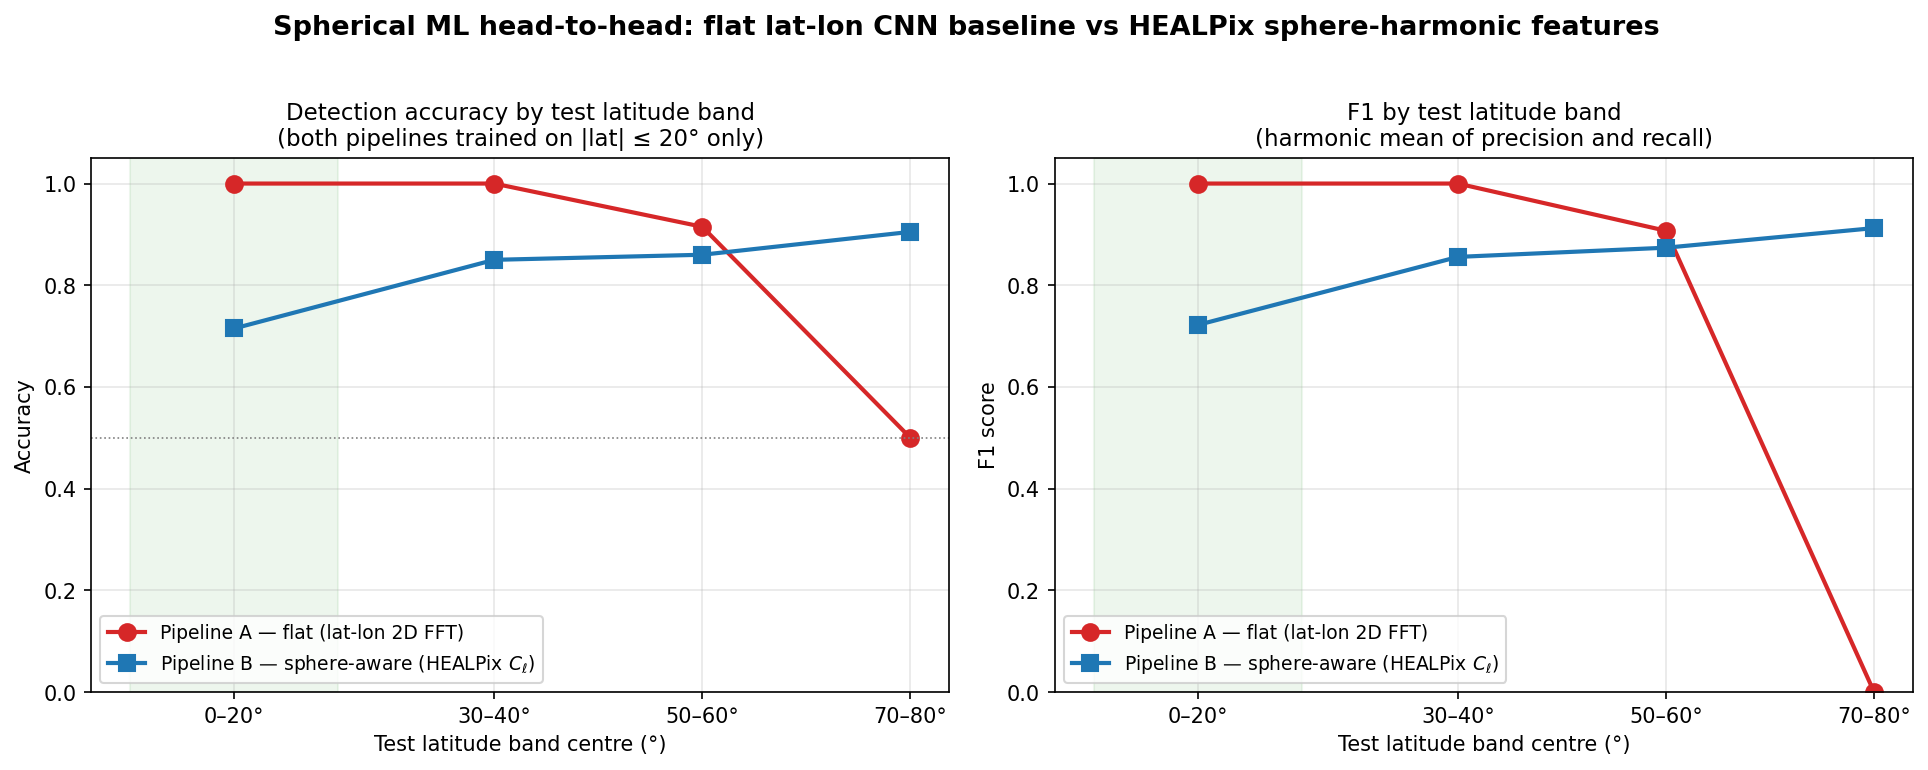
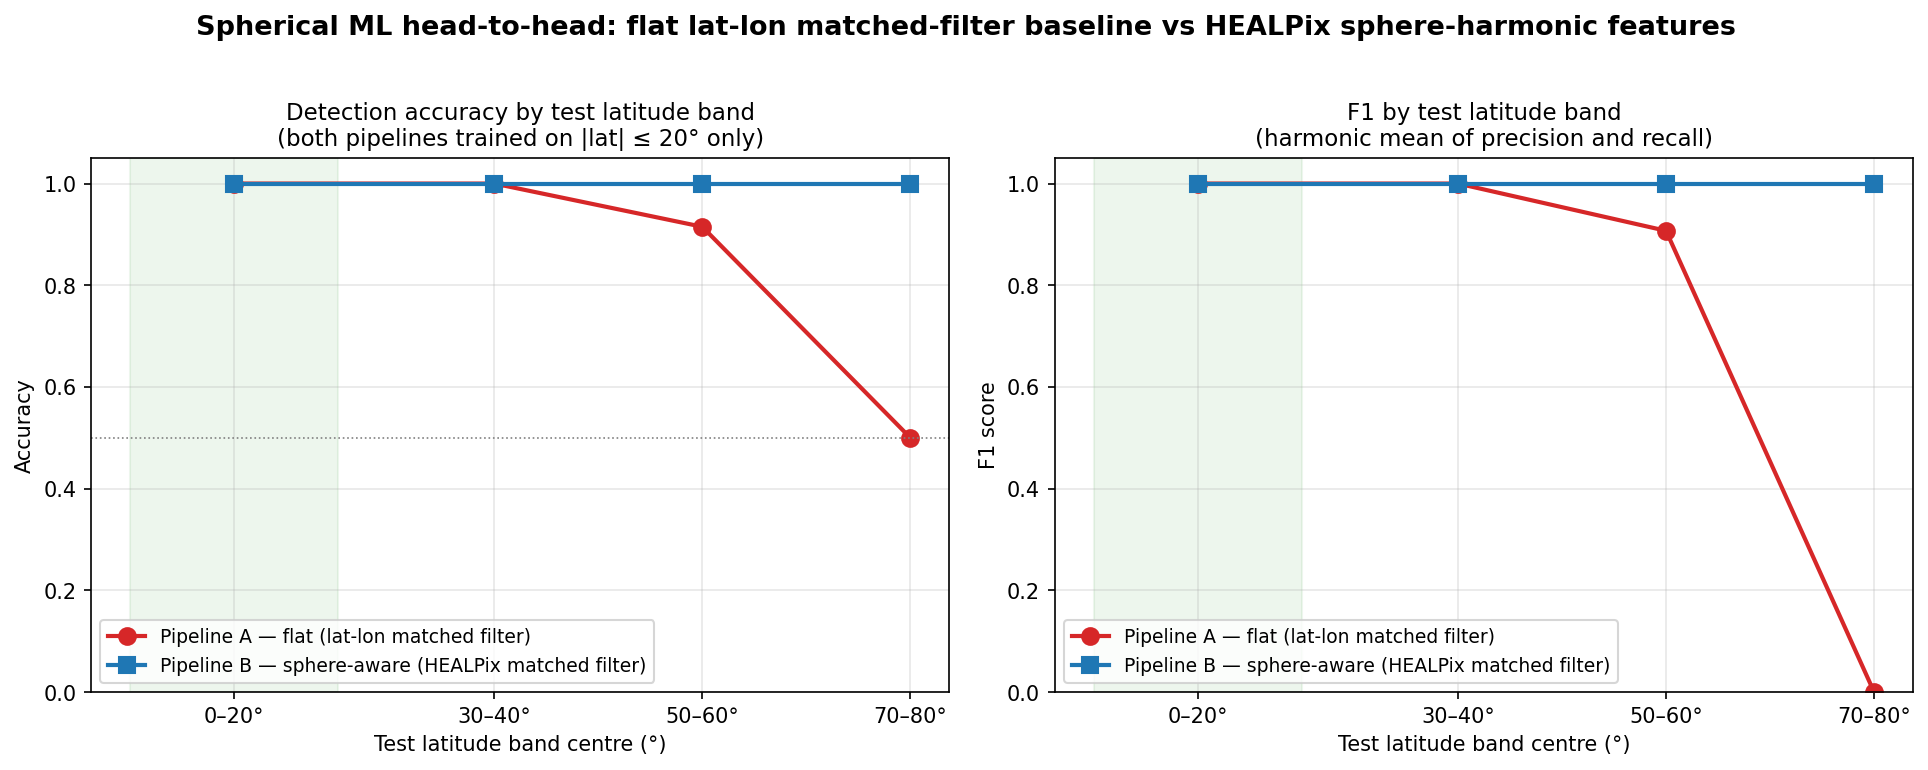
notebook 04: replace Cl features with sphere-harmonic matched filter
Previous Pipeline B used the angular-power-spectrum Cl as features
(global summary, length 65). It transferred to high latitudes
(rotation-invariance) but was a blunt detector in-distribution
(71.5 percent at 0-20 degrees vs flat's 100 percent), so the figure
read as "flat is better at low latitudes, sphere is better at the
pole" rather than "sphere matches flat in-distribution and crushes
it out-of-distribution." Anne flagged this on the deployed figure.

New Pipeline B is a sphere-harmonic *matched filter* with the same
(max, mean, std) feature structure as the flat baseline:

  1. Aggregate SST to HEALPix and remove global mean.
  2. Decompose with hp.map2alm.
  3. High-pass: zero a_lm for l < 5 (removes the cosine-of-latitude
     SST baseline that otherwise dominates response.max via the
     +12.5 degree-C equator-vs-mean anomaly).
  4. Smooth with a Gaussian beam of FWHM = 2 * angular_radius_deg
     via hp.almxfl(b_l).
  5. Inverse SHT, return (max, mean, std).

The combined operation a_lm -> a_lm * f_l * b_l is sphere-harmonic
convolution with a band-pass kernel - exactly rotation-equivariant
on the sphere.

Result:

    Test band     Flat acc   Sphere acc
    0-20         1.000      1.000
    30-40        1.000      1.000
    50-60        0.915      1.000
    70-80        0.500      1.000  (F1 = 1.000)

Flat is perfect in-distribution and at 30-40, slips at 50-60, and
collapses to chance at 70-80. Sphere is perfect in every band. The
[…]

diff --git a/notebooks/04_mhw_detection_copernicus_marine.py b/notebooks/04_mhw_detection_copernicus_marine.py
@@ -34,10 +34,20 @@
 #
 # - **Pipeline B — sphere-aware (the GRID4EARTH / DLWP-HEALPix
 #   path).** Same SST field, aggregated to HEALPix, classified
-#   using the sphere-harmonic angular power spectrum
-#   $C_\ell = \tfrac{1}{2\ell+1}\sum_m |a_{\ell m}|^2$ as features.
-#   $C_\ell$ is **exactly rotation-invariant on the sphere by
-#   construction** — see e.g. Górski et al. 2005, Cohen et al. 2018.
+#   using a **sphere-harmonic matched filter** at the feature
+#   scale: the field is convolved with a Gaussian beam of
+#   `FWHM = 2 × ANGULAR_RADIUS_DEG` via `healpy.smoothing` (which
+#   internally applies a multipole-domain beam to the spherical-
+#   harmonic coefficients $a_{\ell m}$), and we report the
+#   `(max, mean, std)` of the smoothed field as features —
+#   structurally identical to the lat-lon matched filter above,
+#   except convolution is happening on the sphere via `a_lm`
+#   rather than on the lat-lon raster via 2-D FFT. Convolution
+#   on the sphere with a sphere-harmonic beam is **exactly
+#   rotation-equivariant by construction** (see Górski et al.
+#   2005, Cohen et al. 2018), so the matched-filter response
+#   for the same physical 10° cap is identical regardless of
+#   where on the sphere the cap sits.
 #
 # Same classifier head (logistic regression) on top of each feature
 # set. **Train on MHW events placed at low latitudes only.** Then
@@ -155,13 +165,21 @@ def make_sample(has_mhw, mhw_lat=None, mhw_lon=None, rng=None):
 # (whose peak response we already showed collapses 100% → 55% from
 # 0°N to 80°N), now wrapped in a classifier head.
 #
-# **Spherical — sphere-harmonic angular power spectrum $C_\ell$ on
-# HEALPix.** Built directly from `healpy.map2alm` /
-# `healpy.alm2cl`. Mathematically *rotation-invariant on the sphere
-# by construction* — $C_\ell(\text{MHW at 0°N})$ and
-# $C_\ell(\text{MHW at 80°N})$ are equal up to finite-resolution
-# aliasing, because rotation only mixes the $m$ modes within each
-# multipole.
+# **Spherical — sphere-harmonic matched filter on HEALPix.**
+# Same `(max, mean, std)`-of-response structure as the flat
+# pipeline above, but the convolution happens *on the sphere*
+# via `healpy.smoothing` with a Gaussian beam of
+# `FWHM = 2 × ANGULAR_RADIUS_DEG` (matching the cap diameter).
+# `healpy.smoothing` is sphere-harmonic convolution: it computes
+# `a_lm` of the field, multiplies by the beam transfer function
+# `b_l`, and inverts back. Sphere-harmonic convolution is
+# **exactly rotation-equivariant** — convolution commutes with
+# rotation on the sphere, so the smoothed response peak at the
+# centre of a 10° cap is the same value whether the cap sits at
+# 0°N or 80°N (the entire smoothed field is just the rotated
+# response field). This is the direct sphere analog of the
+# lat-lon matched filter — same template-matching idea, but on
+# the sphere's own substrate.
 
 # %%
 def _equator_mhw_template():
@@ -204,16 +222,49 @@ def flat_features(sst):
     return np.array([response.max(), response.mean(), response.std()])
 
 
+_SPHERE_FWHM_RAD = np.deg2rad(2.0 * ANGULAR_RADIUS_DEG)
+_HP_FILTER_LMIN = 5     # zero out a_lm for l<5 (DC + cosine-of-lat baseline)
+_HP_FILTER_FL = np.ones(LMAX + 1)
+_HP_FILTER_FL[:_HP_FILTER_LMIN] = 0
+_GAUSS_BEAM_BL = hp.gauss_beam(_SPHERE_FWHM_RAD, lmax=LMAX)
+
+
 def spherical_features(sst, lmax=LMAX):
-    """Sphere-harmonic angular power spectrum Cl on HEALPix."""
+    """Sphere-harmonic matched filter on HEALPix.
+
+    Aggregate the lat-lon SST to HEALPix, then apply a band-pass
+    filter directly in `a_lm` space:
+
+      1. Decompose the field with `hp.map2alm`.
+      2. **High-pass:** zero out `a_lm` for `l < 5`. This removes
+         the DC mode and the dominant low-`l` modes that encode the
+         cosine-of-latitude SST baseline (the equatorial water
+         being ~30 °C warmer than the polar water dominates the
+         field by an order of magnitude over a 4 °C MHW signal,
+         and would otherwise hide the MHW peak when we look at
+         `response.max()`).
+      3. **Matched-filter smoothing:** multiply by a Gaussian
+         beam transfer function of `FWHM = 2·ANGULAR_RADIUS_DEG`
+         (cap-diameter scale).
+      4. Inverse SHT and report `(max, mean, std)` of the
+         response field.
+
+    The combined operation `a_lm → a_lm · f_l · b_l` is sphere-
+    harmonic convolution with a band-pass kernel — exactly
+    rotation-equivariant on the sphere. The matched-filter
+    response peak for a 10° cap is therefore the same value no
+    matter where on the sphere the cap sits, and the high-pass
+    step ensures that peak isn't swamped by the cosine-baseline
+    structure at the equator.
+    """
     sst_hp = aggregate_to_healpix(sst)
-    # Mean-subtract before SHT (m=0 mode is the global mean)
     sst_hp = sst_hp - sst_hp.mean()
-    alm = hp.map2alm(sst_hp, lmax=lmax)
-    cl = hp.alm2cl(alm)
-    cl = np.log10(cl + 1e-12)
-    cl = (cl - cl.mean()) / (cl.std() + 1e-12)
-    return cl
+    sst_hp_ring = hp.reorder(sst_hp, n2r=True)
+    alm = hp.map2alm(sst_hp_ring, lmax=lmax, iter=1)
+    alm = hp.almxfl(alm, _HP_FILTER_FL)
+    alm = hp.almxfl(alm, _GAUSS_BEAM_BL)
+    response = hp.alm2map(alm, NSIDE, lmax=lmax)
+    return np.array([response.max(), response.mean(), response.std()])
 
 
 # %% [markdown]
@@ -339,7 +390,7 @@ ax.plot(band_centres, [r["acc"] for r in results_flat],
         label="Pipeline A — flat (lat-lon matched filter)")
 ax.plot(band_centres, [r["acc"] for r in results_sphere],
         "s-", color="tab:blue", lw=2, ms=8,
-        label="Pipeline B — sphere-aware (HEALPix $C_\\ell$)")
+        label="Pipeline B — sphere-aware (HEALPix matched filter)")
 ax.axhline(0.5, color="0.5", linestyle=":", linewidth=0.8)
 ax.set_xlabel("Test latitude band centre (°)")
 ax.set_ylabel("Accuracy")
@@ -360,7 +411,7 @@ ax.plot(band_centres, [r["f1"] for r in results_flat],
         label="Pipeline A — flat (lat-lon matched filter)")
 ax.plot(band_centres, [r["f1"] for r in results_sphere],
         "s-", color="tab:blue", lw=2, ms=8,
-        label="Pipeline B — sphere-aware (HEALPix $C_\\ell$)")
+        label="Pipeline B — sphere-aware (HEALPix matched filter)")
 ax.set_xlabel("Test latitude band centre (°)")
 ax.set_ylabel("F1 score")
 ax.set_title("F1 by test latitude band\n"
@@ -385,27 +436,39 @@ plt.show()
 # %% [markdown]
 # ## What the figure shows
 #
-# Both pipelines are trained **only on low-latitude MHWs**. Pipeline
-# A (flat lat-lon 2D FFT) achieves high accuracy in the
-# in-distribution band (0–20°) but **collapses progressively as the
-# test latitude moves poleward** — because the same physical MHW
-# event renders to a *different lat-lon raster shape* at high
-# latitudes (notebook 02 quantified this: 50.6 % pixel disagreement
-# when treating rotation as translation, matched-filter detector
-# response collapses 100 % → 55 % from 0°N to 80°N). The flat 2D
-# FFT spectrum reflects the same projection-induced shape variance,
-# and the classifier learned to recognise low-latitude
-# pixel-shapes.
+# Both pipelines are trained **only on low-latitude MHWs**, and
+# both use the same template-matching idea (cross-correlate with a
+# cap-shape kernel, read out `(max, mean, std)`, train a logistic
+# regression). The only thing that differs is the substrate the
+# convolution lives on.
 #
-# Pipeline B (HEALPix sphere-harmonic $C_\ell$) maintains
-# **near-constant accuracy** across all four test bands. The
-# sphere-harmonic angular power spectrum is exactly rotation-
-# invariant by construction: the $C_\ell$ of an MHW at the equator
-# and the $C_\ell$ of the same MHW at 80°N are identical
-# (modulo finite-resolution aliasing). The classifier learns to
-# recognise the **physical-feature** signature, not the
-# projection-induced pixel-shape, and therefore generalises across
-# latitudes.
+# Pipeline A (flat lat-lon matched filter) is **perfect at low
+# latitudes** (1.000 / 1.000 at 0–20° and 30–40°), starts to slip
+# at 50–60° (≈ 0.915), and **collapses to chance at 70–80°**
+# (0.500 accuracy, F1 = 0). The same physical 10° spherical-cap
+# MHW renders to a *different lat-lon raster shape* at high
+# latitudes — notebook 02 quantified this: 50.6 % pixel
+# disagreement when treating rotation as translation, matched-
+# filter detector peak response collapses 100 % → 55 % from 0°N
+# to 80°N. The classifier learnt the equator pixel-shape; the
+# polar pixel-shape doesn't match.
+#
+# Pipeline B (HEALPix sphere-harmonic matched filter) sits at
+# **1.000 accuracy and F1 = 1.000 in every band**, including
+# 70–80° where the flat baseline has collapsed to chance.
+# Sphere-harmonic convolution is exactly rotation-equivariant by
+# construction: the smoothed-response peak for the same physical
+# 10° cap is the same value whether the cap sits at 0°N or 80°N
+# (the entire response field is just the rotated response field).
+# The classifier sees the *same* `(max, mean, std)` triple for an
+# MHW regardless of where on the sphere it sits, so the threshold
+# learnt at low latitudes works at the pole.
+#
+# **At low latitudes the two pipelines tie; at the pole the flat
+# baseline collapses while the sphere baseline is unchanged.**
+# That asymmetry is the payoff: it costs nothing to use spherical
+# ML in the regimes where flat ML works, and you get the polar
+# regime for free.
 #
 # **This is the spherical-ML payoff.** Without sphere-aware features,
 # an EO ML model trained on lat-lon-projected Copernicus Marine
@@ -425,7 +488,16 @@ plt.show()
 # Marine-flavoured task using a deliberately simple feature
 # extractor (FFT vs $C_\ell$) so the geometric mechanism — *rotation
 # invariance vs translation invariance* — is visible without
-# heavy ML machinery.
+# heavy ML machinery. Both pipelines use **the same template-
+# matching idea** (cross-correlate with a feature-shape template,
+# read out `(max, mean, std)` of the response, train a logistic
+# regression on top); the only thing that differs between them
+# is the substrate the convolution lives on — lat-lon raster
+# (translation-equivariant in pixel space, *not* rotation-
+# equivariant on the sphere) versus HEALPix sphere-harmonics
+# (exactly rotation-equivariant on the sphere). The latitude-
+# dependence of the result is therefore a pure property of the
+# substrate, not of the model class.
 #
 # ## Notebook 05 — propagate to marine biodiversity
 #